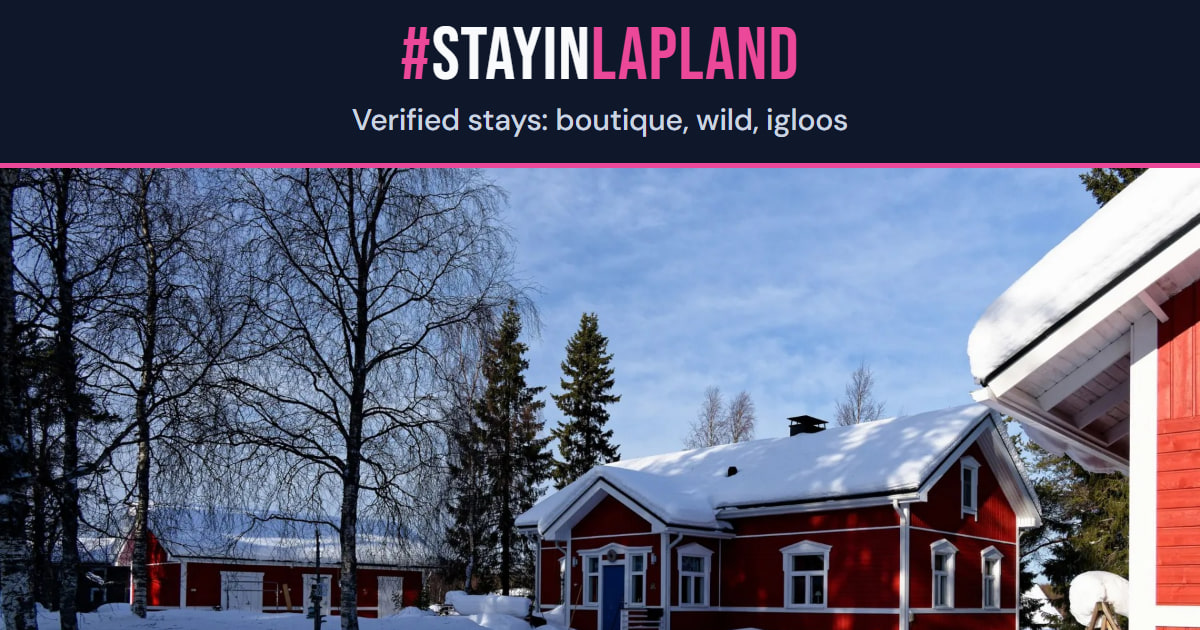
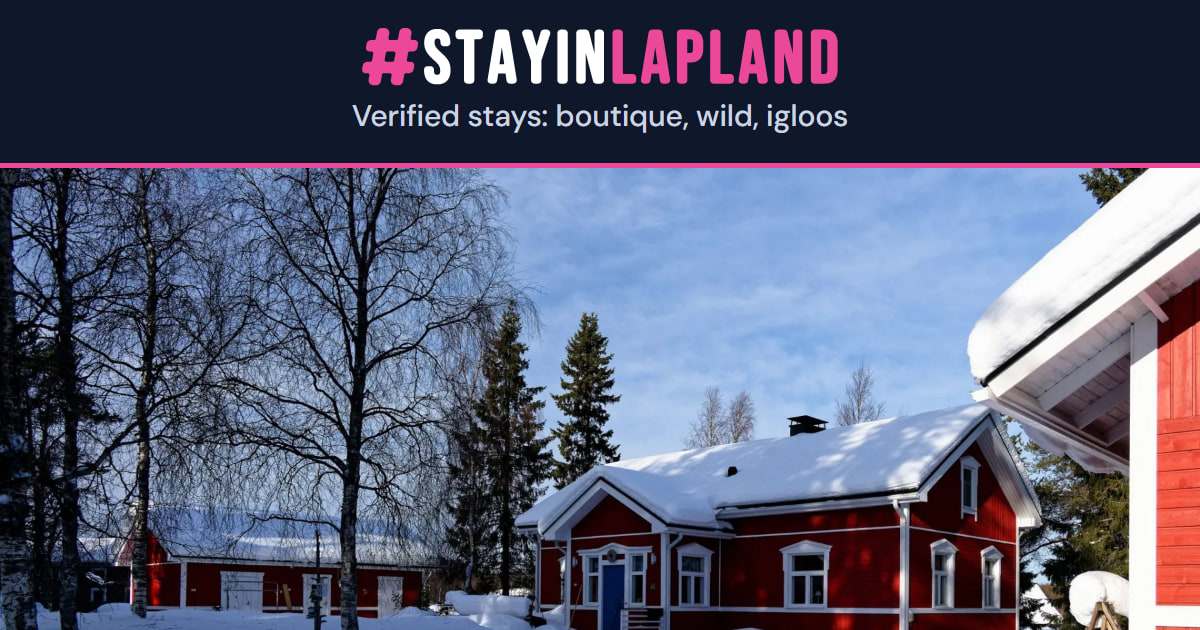
Jakokuvat: sanamerkki virallisessa muodossa (tekstilogo B)
Vesa 15.11.2026: "korjaa jakokuvat". Sivustokortti ja sivukortit tehty uudelleen
lv-opsin scripts/og/card.mjs:llä, joka piirtää #LAPLAND<NIMI>-merkin virallisen
tekstilogon muodossa (lv-ops da94f847: tee_sanamerkit.mjs, sama menetelmä kuin
14.11. hyväksytty #LAPLANDVIBES). Kuvat, rivit ja asettelu ennallaan; uusi ?v=
lasketaan kortin sisällöstä (install.mjs, gen_page_cards.mjs).

Changed region(s): [[0.2775, 0.0302, 0.7092, 0.2111]]

diff --git a/index.html b/index.html
@@ -299,15 +299,15 @@
       });
     </script>
       <!-- Open Graph image (1200×630 JPEG) -->
-    <meta property="og:image" content="https://stayinlapland.com/og.jpg?v=efea71ed" />
-    <meta property="og:image:secure_url" content="https://stayinlapland.com/og.jpg?v=efea71ed" />
+    <meta property="og:image" content="https://stayinlapland.com/og.jpg?v=58e4eee1" />
+    <meta property="og:image:secure_url" content="https://stayinlapland.com/og.jpg?v=58e4eee1" />
     <meta property="og:image:type" content="image/jpeg" />
     <meta property="og:image:width" content="1200" />
     <meta property="og:image:height" content="630" />
     <meta property="og:image:alt" content="A red wooden house in a snowy yard with birches on a winter day. #STAYINLAPLAND" />
     <!-- Twitter card -->
     <meta name="twitter:card" content="summary_large_image" />
-    <meta name="twitter:image" content="https://stayinlapland.com/og.jpg?v=efea71ed" />
+    <meta name="twitter:image" content="https://stayinlapland.com/og.jpg?v=58e4eee1" />
     <meta name="twitter:image:alt" content="A red wooden house in a snowy yard with birches on a winter day. #STAYINLAPLAND" />
       <!-- Favicon stack (LV ecosystem unified design) -->
     <link rel="icon" href="/favicon.svg?v=20261114" type="image/svg+xml" />
